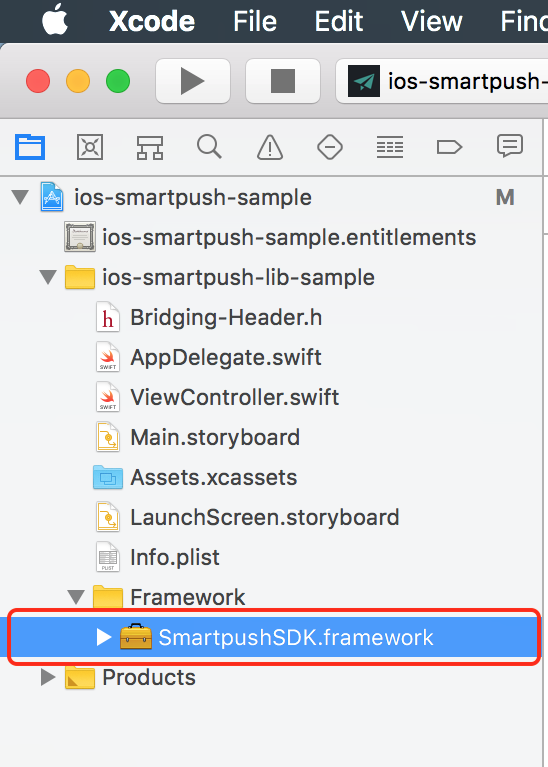
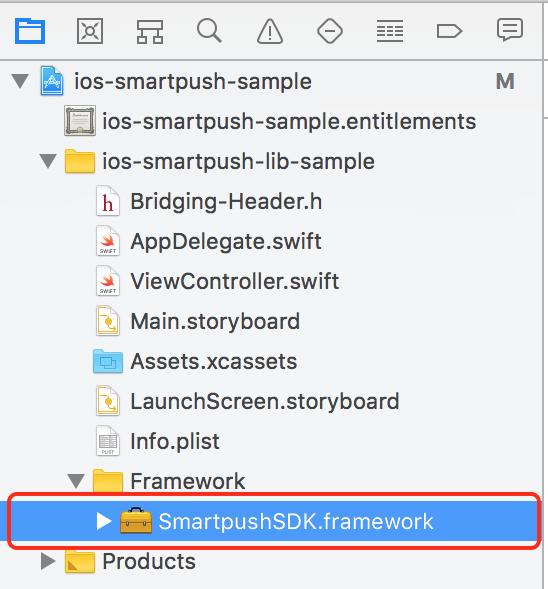
made tutorial

diff --git a/README.md b/README.md
@@ -1,0 +1,208 @@
+# SmartpushSDK iOS
+## Instalação
+**Obs:** Caso seu projeto já utiliza s sdk através do **.framework**, é necessário [remover-lo](#remove_old_sdk) antes de continuar.
+1. Adicione este projeto como Submodulo de seu projeto Git, ou Faça [Download](https://github.com/Getmo-Inc/SmartpushSDKiOS/archive/master.zip).
+```
+    $ git submodule add https://github.com/Getmo-Inc/SmartpushSDKiOS.git
+```
+
+2. Abra a pasta **SmartpushSDKiOS** e arraste para dentro do seu projeto o arquivo **SmartpushSDK.xcodeproj**.
+![](https://github.com/Getmo-Inc/SmartpushSDKiOS/blob/master/Tutorial/import_project.png)
+
+3. Agora precisamos configurar o **Bundle Id** e a **assinatura** do seu app nos **App Extensions** da SDK:
+- Selecione o arquivo **SmartpushSDK.xcodeproj** e depois o target **SmartpushNotificationExtension**.
+- Agora substitua o **YOUR-BUDLE-ID** pelo **Bundle Id** do seu app (ex **com.MyApp.SmartpushNotificationExtension**).
+- Configure a assinatura do **App Extension** conforme o seu app.
+- Repita o procedimento para o target **SmartpushNotificationContent**.
+![](https://github.com/Getmo-Inc/SmartpushSDKiOS/blob/master/Tutorial/extension.png)
+
+4. Caso sua aplicação seja em Swift, utilize um Bridging-Header para realizar a integração com o framework.
+Clique [aqui](https://developer.apple.com/library/content/documentation/Swift/Conceptual/BuildingCocoaApps/MixandMatch.html) para mais informações.
+
+5. No aquivo **info.plist** do seu projeto adicione as seguintes chaves e seus respectivos valores:
+    a. **SMARTPUSH_DevKey**
+    b. **SMARTPUSH_AppKey**
+    c. **SMARTPUSH_HitURL** (optional) - URL para receber hits de click e
+recebimento;
+**Observação**: Caso não possua esses código envie um email para suporte@getmo.com.br
+
+6. Ainda no arquivo **info.plist** adicione o código abaixo para liberar a comunicação com a nossa API:
+```
+<key>NSAppTransportSecurity</key>
+<dict>
+    <key>NSAllowsArbitraryLoads</key>
+    <false/>
+    <key>NSExceptionDomains</key>
+    <dict>
+        <key>api.getmo.com.br</key>
+        <dict>
+            <key>NSIncludesSubdomains</key>
+            <true/>
+            <key>NSTemporaryExceptionAllowsInsecureHTTPLoads</key>
+            <true/>
+            <key>NSTemporaryExceptionMinimumTLSVersion</key>
+            <string>TLSv1.1</string> </dict>
+    </dict>
+</dict>
+```
+
+7. No arquivo **UIApplicationDelegate** implemente o delegate **SmartpushSDKDelegate**;
+8. Ainda no arquivo **UIApplicationDelegate** adicione o código abaixo no corpo do método **didFinishLaunchingWithOptions**:
+
+#### Objective-C
+```
+- (BOOL)application:(UIApplication *)application didFinishLaunchingWithOptions:(NSDictionary *)launchOptions {
+
+    //-----------SMARTPUSH SECTION-----------
+    SmartpushSDK *shared = [SmartpushSDK sharedInstance];
+    [shared setDelegate:self];
+    [shared didFinishLaunchingWithOptions:launchOptions];
+    [shared registerForPushNotifications];
+
+    return YES;
+}
+```
+
+#### Swift 4
+```
+func application(_ application: UIApplication, didFinishLaunchingWithOptions launchOptions: [UIApplicationLaunchOptionsKey: Any]?) -> Bool {
+
+    //-----------SMARTPUSH SECTION-----------
+    let shared = SmartpushSDK.sharedInstance()
+    shared?.delegate = self
+    shared?.didFinishLaunching(options: launchOptions)
+    shared?.registerForPushNotifications()
+
+    return true
+}
+```
+
+9. Ainda no arquivo **UIApplicationDelegate** adicione o código abaixo no corpo do método **didFailToRegisterForRemoteNotificationsWithError**:
+
+#### Objective-C
+```
+- (void)application:(UIApplication *)application didFailToRegisterForRemoteNotificationsWithError:(NSError *)error {
+    [[SmartpushSDK sharedInstance] didFailToRegisterForRemoteNotificationsWithError:error];
+}
+```
+
+#### Swift 4
+```
+func application(_ application: UIApplication, didFailToRegisterForRemoteNotificationsWithError error:Error) {
+    SmartpushSDK.sharedInstance().didFailToRegisterForRemoteNotificationsWithError(error)
+}
+```
+
+10. Ainda no arquivo **UIApplicationDelegate** adicione o código abaixo no corpo do método **didRegisterForRemoteNotificationsWithDeviceToken**:
+
+#### Objective-C
+```
+- (void)application:(UIApplication*)application didRegisterForRemoteNotificationsWithDeviceToken:(NSData*)deviceToken {
+    [[SmartpushSDK sharedInstance] didRegisterForRemoteNotificationsWithDeviceToken:deviceToken];
+}
+```
+
+#### Swift 4
+```
+func application(_ application: UIApplication, didRegisterForRemoteNotificationsWithDeviceToken deviceToken: Data) {
+    SmartpushSDK.sharedInstance().didRegisterForRemoteNotifications(withDeviceToken: deviceToken)
+}
+```
+
+11. Ainda no arquivo **UIApplicationDelegate** adicione o código abaixo no corpo do método **didReceiveRemoteNotification**:
+
+#### Objective-C
+```
+- (void)application:(UIApplication *)application didReceiveRemoteNotification:(NSDictionary *)userInfo {
+    [[SmartpushSDK sharedInstance] didReceiveRemoteNotification:userInfo];
+}
+```
+
+#### Swift 4
+```
+func application(_ application: UIApplication, didReceiveRemoteNotification userInfo: [AnyHashable: Any]) {
+    SmartpushSDK.sharedInstance().didReceiveRemoteNotification(userInfo)
+}
+```
+
+12. Ainda no arquivo **UIApplicationDelegate**, para compatibilidade como iOS8+, adicione o código abaixo no corpo do método **didRegisterUserNotificationSettings**:
+
+#### Objective-C
+```
+- (void)application:(UIApplication *)application didRegisterUserNotificationSettings: (UIUserNotificationSettings *)notificationSettings {
+    [[SmartpushSDK sharedInstance] didRegisterUserNotificationSettings:notificationSettings];
+}
+```
+
+#### Swift 4
+```
+func application(_ application: UIApplication, didRegister notificationSettings: UIUserNotificationSettings) {
+    SmartpushSDK.sharedInstance().didRegister(notificationSettings)
+}
+```
+
+13. Para capturar e tratar as mensagens push recebidas, adicione o código no corpo do método **onPushAccepted** no arquivo **UIApplicationDelegate**. Este método será chamado sempre que uma notificação for recebida ou quando o aplicativo for aberto ao clicar em uma notificação:
+
+#### Objective-C
+```
+- (void)onPushAccepted:(NSDictionary *)push andOpenFromPush:(BOOL) openFromPush {
+    NSLog(@"Push: %@", push);
+}
+
+- (void)onPushAccepted:(NSDictionary *)push andOpenFromPush:(BOOL) openFromPush withUri:(NSString*) uri {
+    NSLog(@"Push: %@", push);
+}
+```
+
+#### Swift 4
+```
+func onPushAccepted(_ push: [AnyHashable: Any]!, andOpenFromPush openFromPush: Bool) {
+    print("Push: \(push)")
+}
+
+func onPushAccepted(_ push: [AnyHashable : Any]!, andOpenFromPush openFromPush: Bool, withUri uri: String!) {
+    print("Push: \(push)")
+}
+```
+
+### Melhorias para o iOS 10+
+
+14. Para que seu aplicativo receba as notificações pela central do iOS enquanto estiver em primeiro plano, adicione o código no corpo do método **UIApplicationDelegate** no arquivo **UIApplicationDelegate**.
+
+#### Objective-C
+```
+- (void) userNotificationCenter:(UNUserNotificationCenter *)center willPresentNotification:(UNNotification *)notification withCompletionHandler:(void (^)(UNNotificationPresentationOptions))completionHandler  NS_AVAILABLE_IOS(10.0) {
+    completionHandler(UNAuthorizationOptionAlert | UNAuthorizationOptionBadge | UNAuthorizationOptionSound);
+}
+```
+
+#### Swift 4
+```
+@available(iOS 10.0, *)
+func userNotificationCenter(_ center: UNUserNotificationCenter, willPresent notification: UNNotification, withCompletionHandler completionHandler: @escaping (UNNotificationPresentationOptions) -> Void) {
+    completionHandler([.alert, .badge, .sound])
+}
+```
+
+
+**Pronto a SDK SMARTPUSH está integrada a sua app! Sua app está pronta para receber mensagens push. Simples, não?**
+
+## Gerenciando TAGs, Blacklist e Nearzones
+### TAGs
+A SDK provê mecanismos para que as apps possam criar e salvar tags que depois serão utilizadas na filtragem dos conjuntos para envio direcionado de mensagens push através da API REST.
+
+Para configurar uma TAG utilize o método disponível na classe Smartpush.setTag. Este método recebe como parâmetros uma chave e um valor.
+
+### Blacklist
+A SDK provê mecanismos para que os usuários possam cancelar/ativar o recebimento de mensagens push.
+
+Para cancelar/ativar o recebimento de mensagens push forneça um meio para que o usuário possa utilizar o método disponível na classe Smartpush.blacklist. Este método recebe como parâmetros um boolean.
+### Nearzones
+A SDK provê mecanismos para que possam ser disparadas campanhas de mensagens push quando os usuários entrarem em regiões especificas.
+
+Para monitorar e permitir o envio de mensagens push quando seus usuários ingressarem em determinadas áreas utilize o método disponível na classe Smartpush.nearzones. Este método recebe como parâmetros a latitude e a longitude.
+
+## <a name="remove_old_sdk"></a>Removendo antiga SDK
+Para remover a antiga SDK que utilizáva o arquivo **.framework**, selecione **SmartpushSDK.framework** no seu projeto e **delete-o** movendo para a lixeira.
+
+![](https://github.com/Getmo-Inc/SmartpushSDKiOS/blob/master/Tutorial/remove_old.png)
